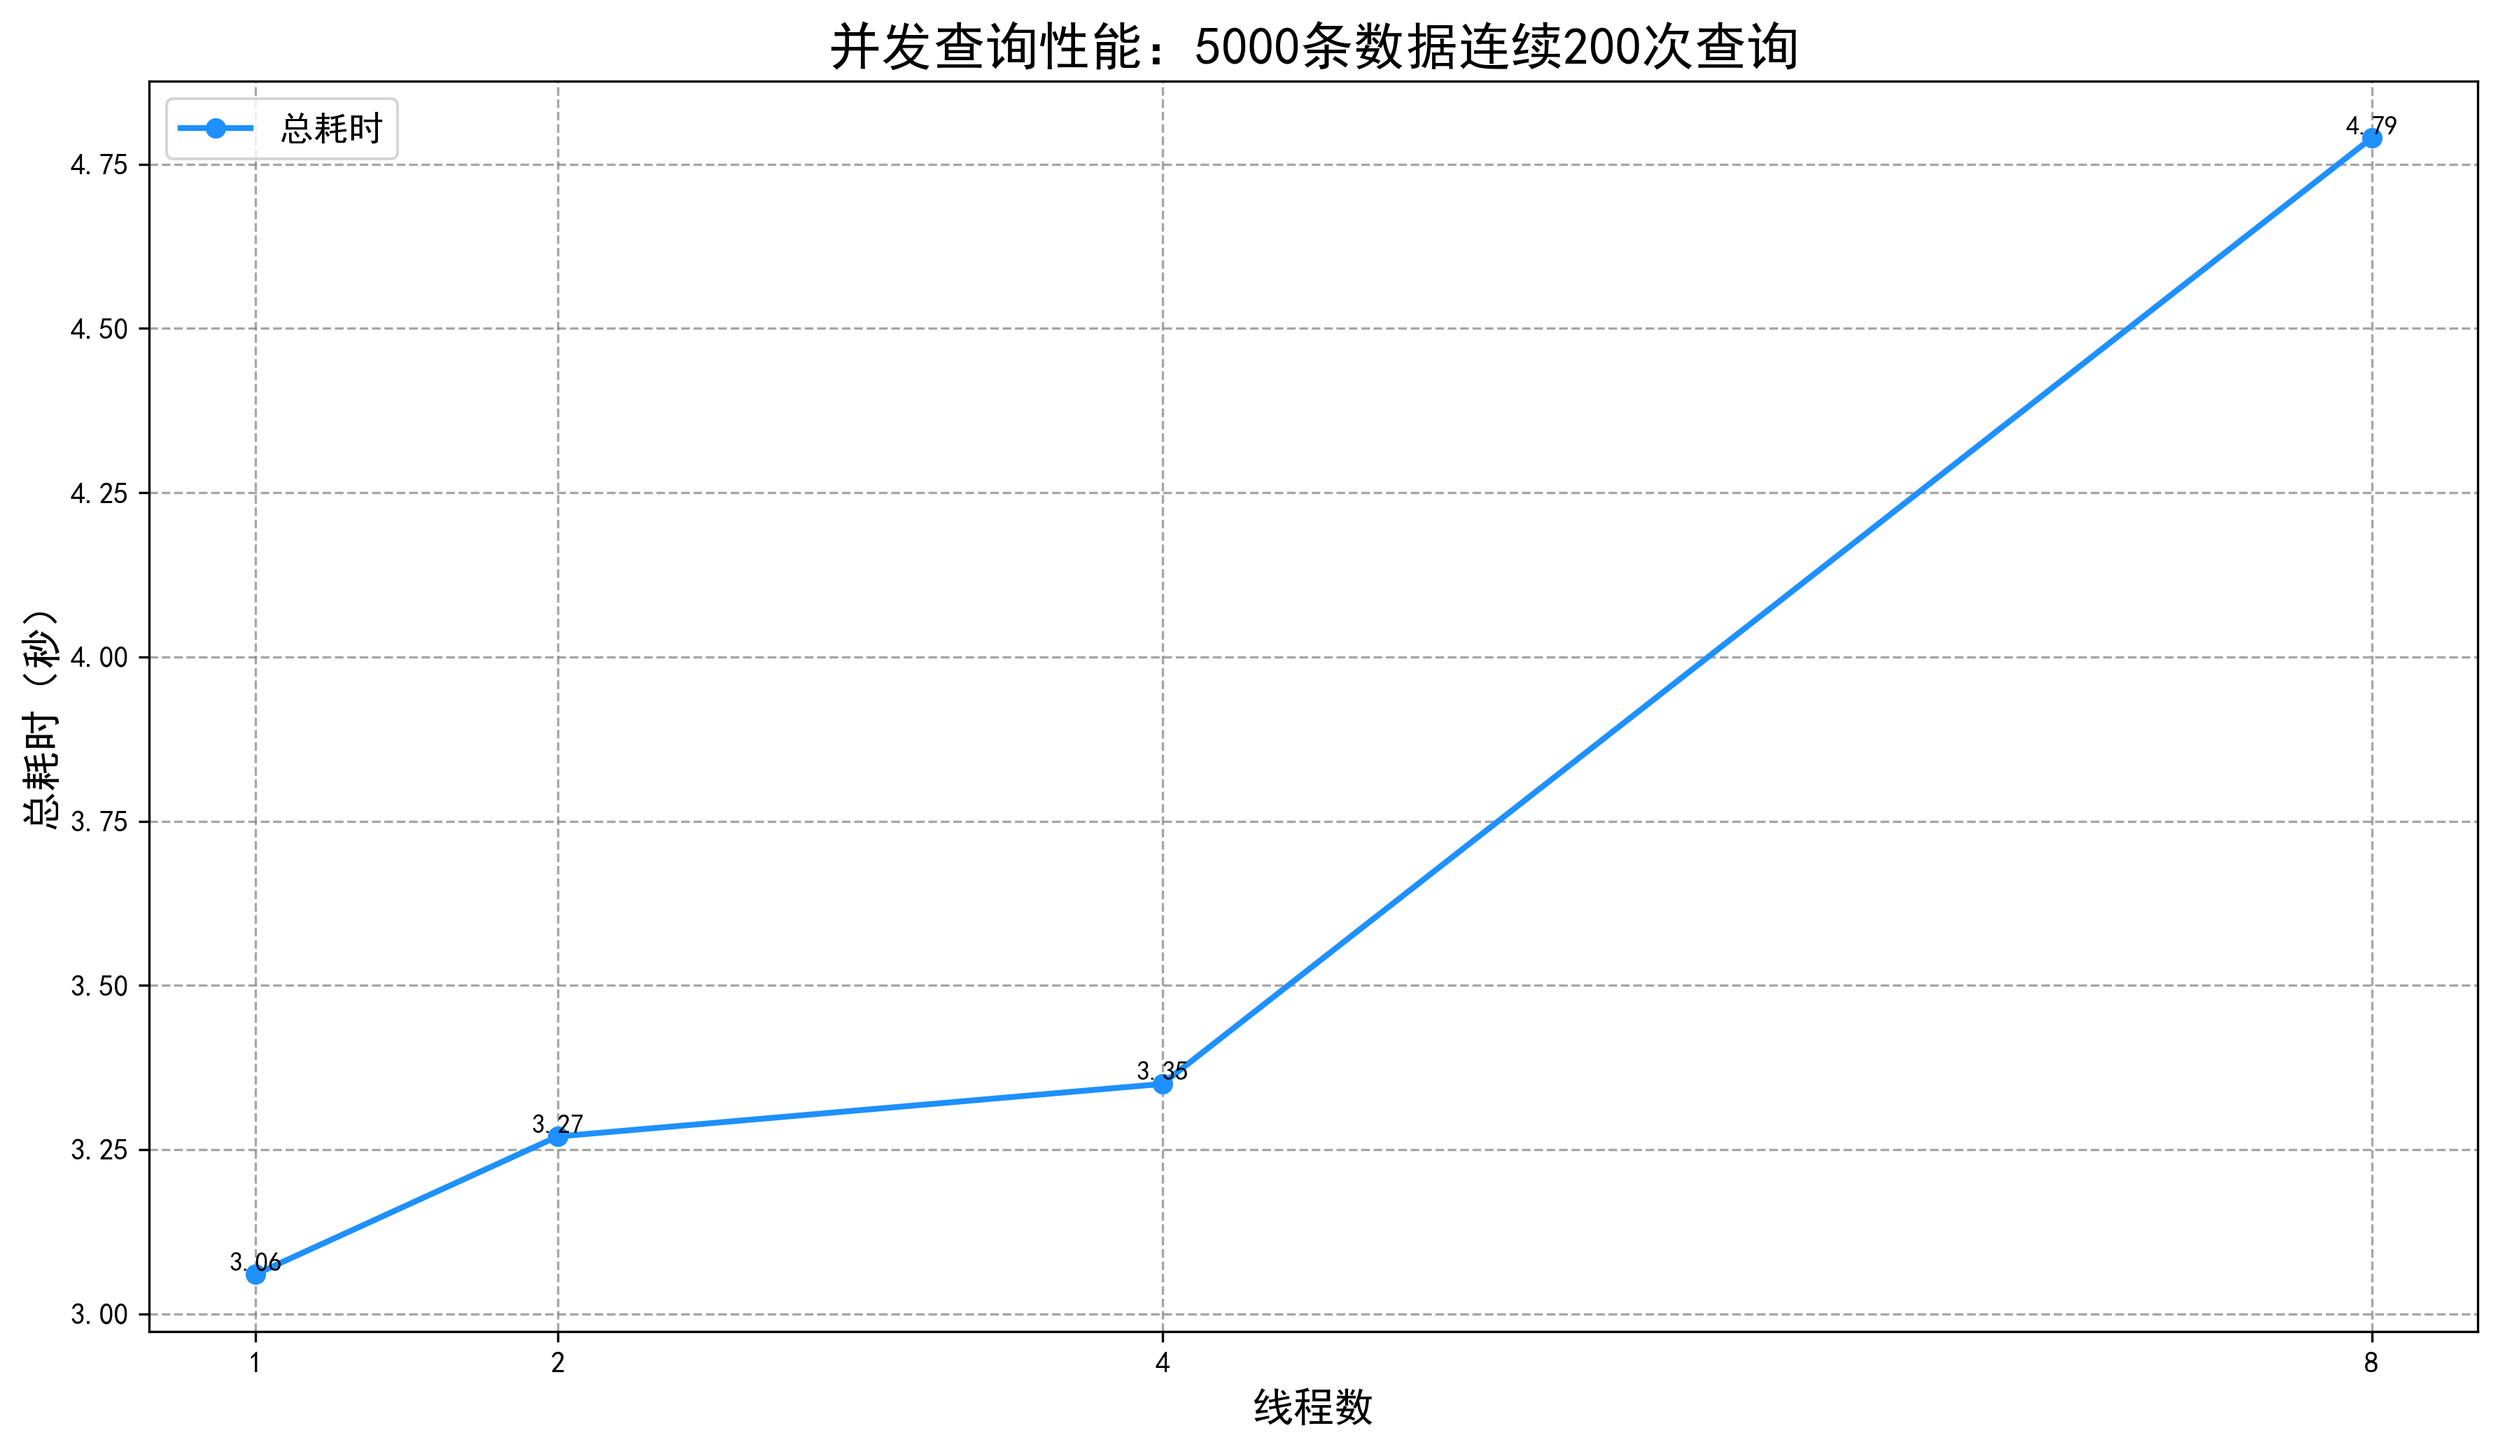
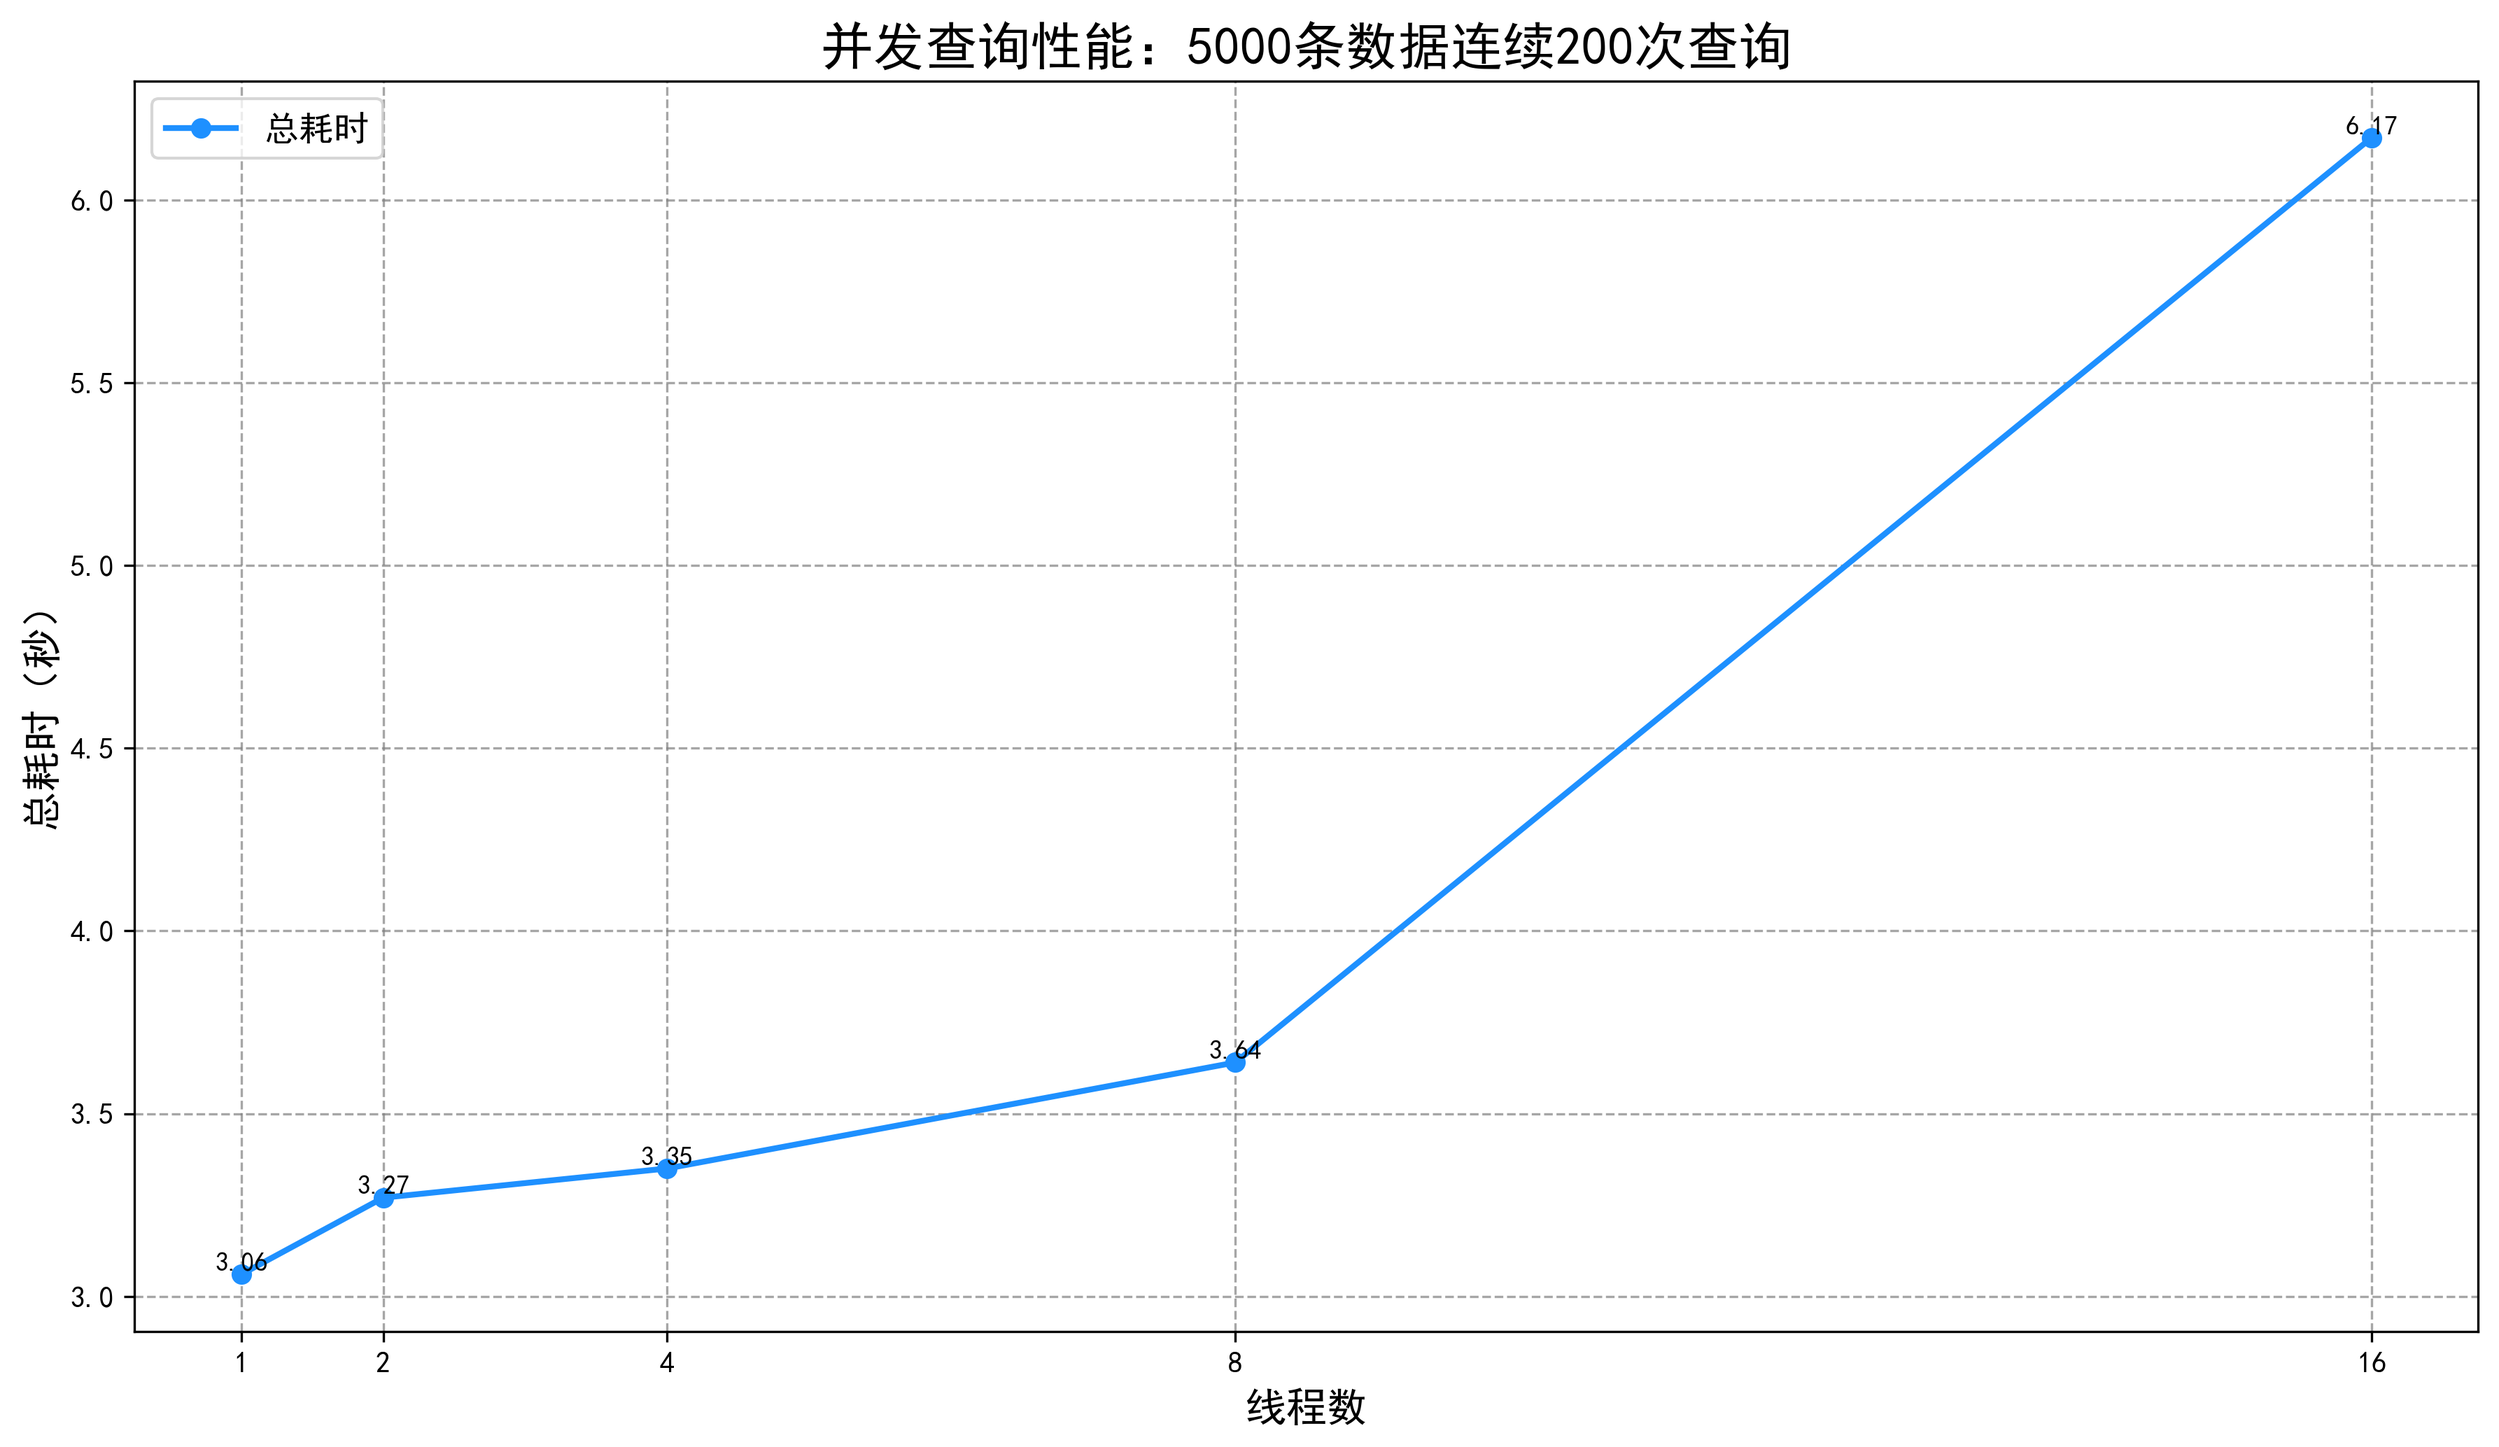
feat: added 16 theards test for select

diff --git a/Concurrency for B+ Tree.md b/Concurrency for B+ Tree.md
@@ -94,12 +94,6 @@ go build -buildvcs=false -o dinodb_client ./cmd/dinodb_client
 go build -buildvcs=false -o dinodb_stress ./cmd/dinodb_stress
 ```
 
-- 单个竞态文件测试命令
-
-``` go
-./dinodb_stress -index=btree -workload=workloads/i-a-sm.txt -n=8 -verify
-```
-
 - workload 文件类型：
 
   - i-a-sm.txt: 顺序小数据集 (ascending, small)
@@ -134,6 +128,13 @@ go test './test/concurrency/...' -race -timeout 180s -v
 
 - 多线程测试：多个线程同时执行所有插入操作
 - 使用大数据集
+- 单个竞态文件测试命令
+
+```go
+./dinodb_stress -index=btree -workload=workloads/i-a-sm.txt -n=8 -verify
+```
+
+
 
 **1. 顺序插入10000条数据测试**
 
@@ -222,6 +223,6 @@ for i := 0; i < *nFlag; i++ {
 ![select_test.png](./images/select_test.png)
 
 - 简单增加线程数并不能线性提升性能 
-- 8线程时出现性能显著下降
-- 1-4线程间性能相对稳定
+- 16线程时出现性能显著下降
+- 1-8线程间性能相对稳定
 -  B+ 树的读锁虽然允许共享访问，但在高并发下仍存在性能瓶颈。
